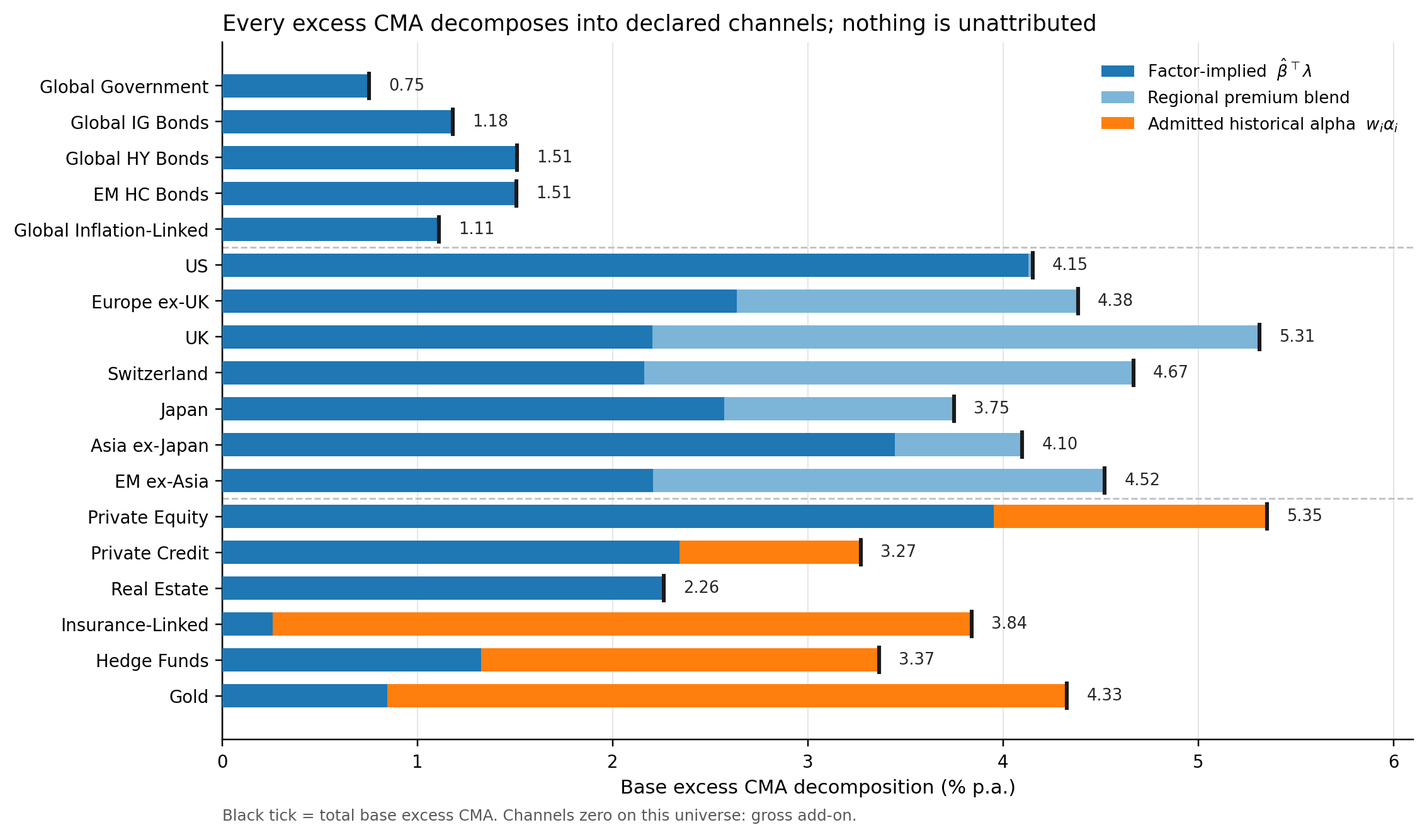
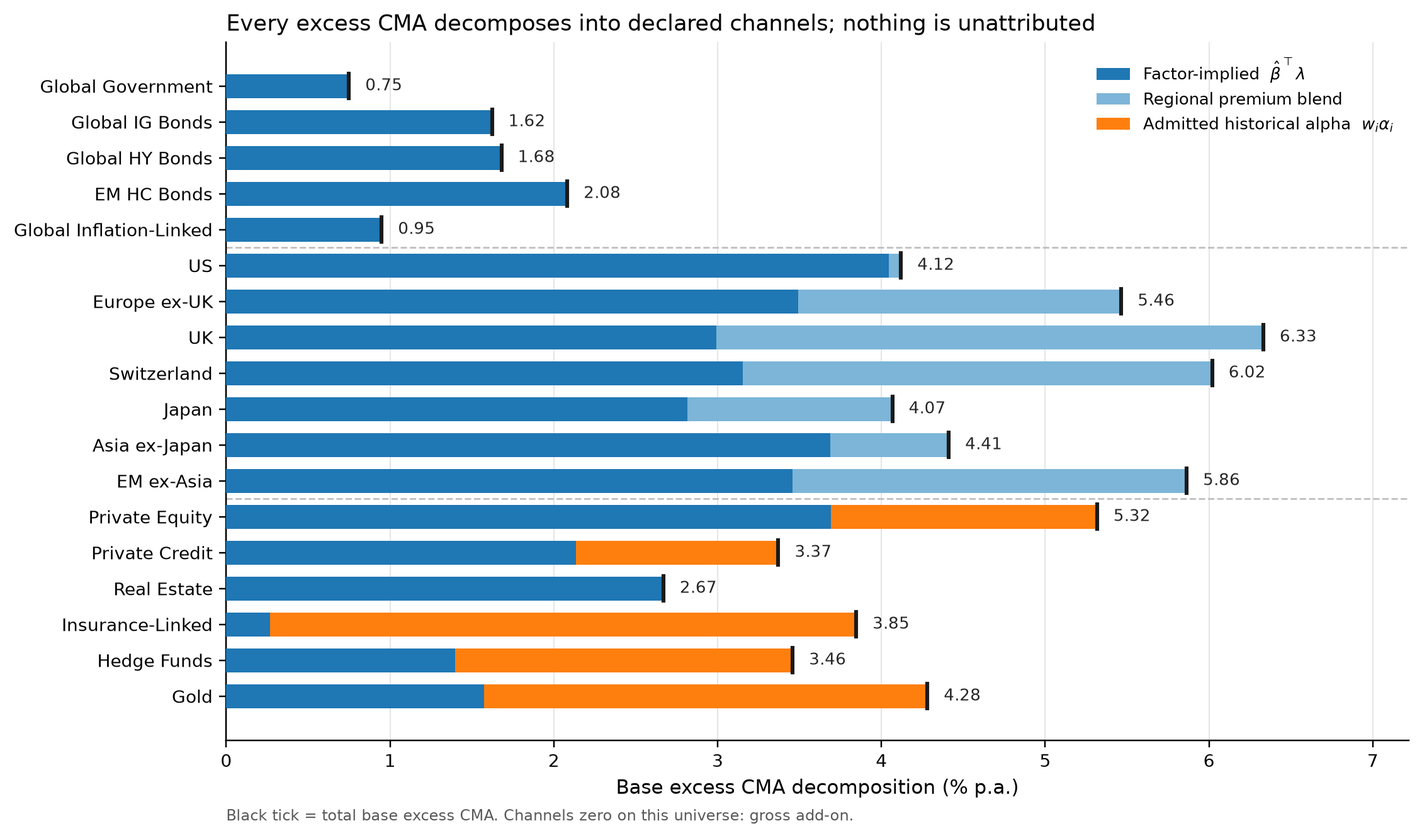
[jpm-custom-recut S4] rebuild custom-cut exhibits

diff --git a/papers/matf_cma_jpm_2026/replication/figures/exhibit_sr_sensitivity.tex b/papers/matf_cma_jpm_2026/replication/figures/exhibit_sr_sensitivity.tex
@@ -1,26 +1,26 @@
-% ===== tab:sr_sensitivity — regenerated on cma_data snapshot 2026q2 =====
+% ===== tab:sr_sensitivity — regenerated on cma_data snapshot 2026q2_custom =====
 % Source: replication/run_bootstrap_q2.py, B = 500 per row, seed 42.
 % Reduction ratio of the 90% frontier bandwidth at the Balanced with Alts
-%   benchmark volatility 9.37%. Only sigma_SR varies across rows.
+%   benchmark volatility 9.30%. Only sigma_SR varies across rows.
 % Prior mean is the July MATF_SHARPE_RATIOS vector (owner decision O-J1 / B10).
 
-				0.050 & 3.88$\times$ & 15.0$\times$ & Aggressive prior \\
-				0.075 & 2.68$\times$ & 7.2$\times$ & Moderate--aggressive \\
-				\textbf{0.100} & \textbf{2.00$\times$} & \textbf{4.0$\times$} & \textbf{Paper baseline} \\
-				0.125 & 1.62$\times$ & 2.6$\times$ & Moderate--loose \\
-				0.150 & 1.37$\times$ & 1.9$\times$ & Loose \\
-				0.200 & 1.04$\times$ & 1.1$\times$ & Prior equals data noise scale \\
+				0.050 & 4.56$\times$ & 20.8$\times$ & Aggressive prior \\
+				0.075 & 3.03$\times$ & 9.2$\times$ & Moderate--aggressive \\
+				\textbf{0.100} & \textbf{2.28$\times$} & \textbf{5.2$\times$} & \textbf{Paper baseline} \\
+				0.125 & 1.82$\times$ & 3.3$\times$ & Moderate--loose \\
+				0.150 & 1.53$\times$ & 2.3$\times$ & Loose \\
+				0.200 & 1.16$\times$ & 1.4$\times$ & Prior equals data noise scale \\
 %
 % tab:se_comparison, recomputed on snapshot inputs. Grinold-Kroner is ADOPTED
 %   at 3.77% per owner ruling O-J9: the R2 3.64% does not reproduce from the
 %   components Appendix B prints (0.1%, 1.5%, 1.0%, 2.0%) with rho = 0.5.
-%   Sample mean: 3.24% (R2 printed 3.24%)
+%   Sample mean: 3.25% (R2 printed 3.24%)
 %   Grinold-Kroner: 3.77% (R2 printed 3.64%)  [O-J9: adopted at the value the printed components imply; the R2 3.64% is superseded]
-%   MATF-CMA: 1.53% (R2 printed 1.53%)
-%   spec: sigma_i = 16.2%, T_eff = 25, beta_Eq = 0.99, sigma_F,Eq = 15.4%, sigma_SR = 0.10
-%   NOTE-line ratio phrase: 3.2 : 3.8 : 1.5 (R2 printed 3.2 : 3.6 : 1.5)
+%   MATF-CMA: 1.52% (R2 printed 1.53%)
+%   spec: sigma_i = 16.3%, T_eff = 25, beta_Eq = 0.98, sigma_F,Eq = 15.5%, sigma_SR = 0.10
+%   NOTE-line ratio phrase: 3.3 : 3.8 : 1.5 (R2 printed 3.2 : 3.6 : 1.5)
 %
 % --- tab:se_comparison body, US equity SE column ---
-				Sample mean      & $T_{\mathrm{eff}}$ asset returns & $T/L$ scales noise & $\sigma_i / \sqrt{T_{\mathrm{eff}}}$ & $3.24\%$ \\
+				Sample mean      & $T_{\mathrm{eff}}$ asset returns & $T/L$ scales noise & $\sigma_i / \sqrt{T_{\mathrm{eff}}}$ & $3.25\%$ \\
 				Grinold-Kroner   & $K_{GK} = 4$ forecasts per asset & fixed; no $T$ scaling & Equation~\eqref{eq:var_gk} & $3.77\%$ \\
-				MATF-CMA         & $M = 9$ universe-wide factor SRs & cross-asset pooling via $\hat{\boldsymbol\beta}$ & Equation~\eqref{eq:se_matf_full} & $1.53\%$ \\
+				MATF-CMA         & $M = 11$ universe-wide factor SRs & cross-asset pooling via $\hat{\boldsymbol\beta}$ & Equation~\eqref{eq:se_matf_full} & $1.52\%$ \\

diff --git a/papers/matf_cma_jpm_2026/replication/run_snapshot_tables.py b/papers/matf_cma_jpm_2026/replication/run_snapshot_tables.py
@@ -122,7 +122,7 @@ def write_nine_factors_tex(table: pd.DataFrame,
                            file_name: str = 'exhibit_nine_factors.tex',
                            ) -> Path:
     """drop-in replacement body for tab:nine_factors."""
-    lines = ['% ===== tab:nine_factors — regenerated on cma_data snapshot 2026q2 =====',
+    lines = ['% ===== tab:nine_factors — regenerated on cma_data snapshot 2026q2_custom =====',
              '% Source: replication/run_snapshot_tables.py, factor_premia.csv + factor_covar.csv.',
              '% Premium = lambda_j (base column); Vol = sqrt(diag(Sigma_F)); both in percent p.a.',
              '% Premium-source column text is the R2 manuscript text, unchanged.',
@@ -177,7 +177,7 @@ def write_admission_audit_tex(table: pd.DataFrame,
                               file_name: str = 'exhibit_admission_audit.tex',
                               ) -> Path:
     """drop-in replacement body for tab:admission_audit, with the sum IR^2 and Cap 3 lines."""
-    lines = ['% ===== tab:admission_audit — regenerated on cma_data snapshot 2026q2 =====',
+    lines = ['% ===== tab:admission_audit — regenerated on cma_data snapshot 2026q2_custom =====',
              '% Source: replication/run_snapshot_tables.py, assets.csv (production policy w_paper,',
              '%   PE recut to 0.5). The pre-recut workbook policy w_workbook is not used here.',
              '% alpha_i is the EWMA residual mean of the production returns spec, not a',
@@ -250,7 +250,7 @@ def write_sharpe_calibration_tex(table: pd.DataFrame,
                                  file_name: str = 'exhibit_sharpe_cal.tex',
                                  ) -> Path:
     """drop-in replacement body for tab:sharpe_cal."""
-    lines = ['% ===== tab:sharpe_cal — regenerated on cma_data snapshot 2026q2 =====',
+    lines = ['% ===== tab:sharpe_cal — regenerated on cma_data snapshot 2026q2_custom =====',
              '% Source: replication/run_snapshot_tables.py, MANIFEST prod_config_snapshot',
              '%   (family_sharpe_ratios x factor_vols). Empirical SR column joined from',
              '%   run_factor_history_exhibits.py (Stage J2), 2005 - 2026-Q2, zero rf.',
@@ -326,7 +326,7 @@ def write_factor_returns_tex(table: pd.DataFrame,
                              file_name: str = 'exhibit_factor_returns.tex',
                              ) -> Path:
     """drop-in replacement body for tab:factor_returns."""
-    lines = ['% ===== tab:factor_returns — regenerated on cma_data snapshot 2026q2 =====',
+    lines = ['% ===== tab:factor_returns — regenerated on cma_data snapshot 2026q2_custom =====',
              '% Source: replication/run_snapshot_tables.py, factor_navs.csv (calendar-year',
              '%   excess returns) + factor_premia.csv stress/upside columns.',
              '% Resolved semantics: the stress and upside premia columns ARE the de-compounded',

diff --git a/papers/matf_cma_jpm_2026/replication/figures/exhibit_governed_dial.tex b/papers/matf_cma_jpm_2026/replication/figures/exhibit_governed_dial.tex
@@ -1,5 +1,5 @@
 % ===== EXHIBIT: the governed dial (Appendix E per owner decision O-J3) =====
-% Source: replication/run_admission_exhibits.py on cma_data snapshot 2026q2.
+% Source: replication/run_admission_exhibits.py on cma_data snapshot 2026q2_custom.
 
 \begin{figure}[H]
 	\captionof{figure}{The Governed Dial: Cap 3 Sets the Admissible Admission Range}\label{fig:governed_dial}\vspace*{-0.5\baselineskip}
@@ -7,5 +7,5 @@
 		\includegraphics[width=0.90\linewidth]{figures/governed_dial.PNG}
 	\end{center}
 	\vspace*{-1.0\baselineskip}
-	{\footnotesize Notes: 2026-Q2 production cut, 18 assets, USD, Balanced with Alternatives mandate. For each admitted sleeve we sweep its admission weight $w_i$ over $[0,1]$ with the other sleeves held at the production policy, re-solve the mandate, and record the largest $w_i$ that satisfies each governance constraint. Nested bars are the Cap~3 portfolio budget $\boldsymbol\alpha_{adm}^{\intercal}\boldsymbol D^{-1}\boldsymbol\alpha_{adm} \le \kappa \cdot SR^2_{MATFCMA}$ at the three budgets, with the OTHER sleeves held at their Cap~3-projected weights $\theta(\kappa) w_j$, so a shorter bar is a tighter budget. Held instead at the production policy, the other sleeves alone exhaust the budget at every $\kappa$ shown and no admission is admissible: the sleeve-level restatement of the Cap~3 audit result. Orange diamonds mark the production admission. The benchmark stress floor of Section~5.3, $\text{stress total} \ge \mu_{bm} - 1.0\sigma_{bm}$, evaluates to -1.83\% of expected total return. the one-sigma benchmark stress floor never binds across the sweep, so Cap~3 is the operative constraint on every sleeve.}
+	{\footnotesize Notes: 2026-Q2 production cut, 18 assets, USD, Balanced with Alternatives mandate. For each admitted sleeve we sweep its admission weight $w_i$ over $[0,1]$ with the other sleeves held at the production policy, re-solve the mandate, and record the largest $w_i$ that satisfies each governance constraint. Nested bars are the Cap~3 portfolio budget $\boldsymbol\alpha_{adm}^{\intercal}\boldsymbol D^{-1}\boldsymbol\alpha_{adm} \le \kappa \cdot SR^2_{MATFCMA}$ at the three budgets, with the OTHER sleeves held at their Cap~3-projected weights $\theta(\kappa) w_j$, so a shorter bar is a tighter budget. Held instead at the production policy, the other sleeves alone exhaust the budget at every $\kappa$ shown and no admission is admissible: the sleeve-level restatement of the Cap~3 audit result. Orange diamonds mark the production admission. The benchmark stress floor of Section~5.3, $\text{stress total} \ge \mu_{bm} - 1.0\sigma_{bm}$, evaluates to -1.62\% of expected total return. the one-sigma benchmark stress floor never binds across the sweep, so Cap~3 is the operative constraint on every sleeve.}
 \end{figure}

diff --git a/papers/matf_cma_jpm_2026/replication/figures/exhibit_admission_audit.tex b/papers/matf_cma_jpm_2026/replication/figures/exhibit_admission_audit.tex
@@ -1,18 +1,18 @@
-% ===== tab:admission_audit — regenerated on cma_data snapshot 2026q2 =====
+% ===== tab:admission_audit — regenerated on cma_data snapshot 2026q2_custom =====
 % Source: replication/run_snapshot_tables.py, assets.csv (production policy w_paper,
 %   PE recut to 0.5). The pre-recut workbook policy w_workbook is not used here.
 % alpha_i is the EWMA residual mean of the production returns spec, not a
 % full-sample Jensen mean (owner decision O-J2).
 % Extends the R2 body with the portfolio claim line and the Cap 3 audit row.
 
-				Private Equity    & 0.50 &    $2.80$ & 1.40 & 5.35 & 26 & 0.19 & pass & pass \\
-				Private Credit    & 0.50 &    $1.85$ & 0.93 & 3.27 & 28 & 0.19 & pass & pass \\
-				Real Estate       & 0.00 &   $-2.48$ & 0.00 & 2.26 & 0 & 0.00 & pass & pass \\
-				Insurance-Linked  & 1.00 &    $3.58$ & 3.58 & 3.84 & 93 & 0.83 & FAIL & FAIL \\
-				Hedge Funds       & 1.00 &    $2.04$ & 2.04 & 3.37 & 61 & 0.77 & FAIL & FAIL \\
-				Gold              & 0.25 &   $13.93$ & 3.48 & 4.33 & 80 & 0.23 & pass & FAIL \\
+				Private Equity    & 0.50 &    $3.25$ & 1.63 & 5.32 & 31 & 0.22 & pass & pass \\
+				Private Credit    & 0.50 &    $2.47$ & 1.24 & 3.37 & 37 & 0.26 & pass & pass \\
+				Real Estate       & 0.00 &   $-1.63$ & 0.00 & 2.67 & 0 & 0.00 & pass & pass \\
+				Insurance-Linked  & 1.00 &    $3.58$ & 3.58 & 3.85 & 93 & 0.83 & FAIL & FAIL \\
+				Hedge Funds       & 1.00 &    $2.06$ & 2.06 & 3.46 & 60 & 0.78 & FAIL & FAIL \\
+				Gold              & 0.25 &   $10.83$ & 2.71 & 4.28 & 63 & 0.18 & pass & FAIL \\
 				\midrule
-				\multicolumn{6}{l}{Portfolio claim $\boldsymbol\alpha_{adm}^{\intercal}\boldsymbol D^{-1}\boldsymbol\alpha_{adm} = \sum_i \mathrm{IR}_i^2$} & 1.40 & \multicolumn{2}{c}{} \\
-				\multicolumn{6}{l}{Cap 3 budget $\kappa \cdot SR^2_{MATFCMA}$ at $\kappa = 1.00$} & 0.24 & \multicolumn{2}{c}{FAIL} \\
+				\multicolumn{6}{l}{Portfolio claim $\boldsymbol\alpha_{adm}^{\intercal}\boldsymbol D^{-1}\boldsymbol\alpha_{adm} = \sum_i \mathrm{IR}_i^2$} & 1.44 & \multicolumn{2}{c}{} \\
+				\multicolumn{6}{l}{Cap 3 budget $\kappa \cdot SR^2_{MATFCMA}$ at $\kappa = 1.00$} & 0.21 & \multicolumn{2}{c}{FAIL} \\
 %
-% Cap 3 audit: raw claim 1.398 vs budget 0.238 (SR2_MATFCMA = 0.238), skill share 85% -> FAIL.
+% Cap 3 audit: raw claim 1.444 vs budget 0.205 (SR2_MATFCMA = 0.205), skill share 88% -> FAIL.

diff --git a/papers/matf_cma_jpm_2026/replication/figures/exhibit_nine_factors.tex b/papers/matf_cma_jpm_2026/replication/figures/exhibit_nine_factors.tex
@@ -1,14 +1,16 @@
-% ===== tab:nine_factors — regenerated on cma_data snapshot 2026q2 =====
+% ===== tab:nine_factors — regenerated on cma_data snapshot 2026q2_custom =====
 % Source: replication/run_snapshot_tables.py, factor_premia.csv + factor_covar.csv.
 % Premium = lambda_j (base column); Vol = sqrt(diag(Sigma_F)); both in percent p.a.
 % Premium-source column text is the R2 manuscript text, unchanged.
 
-				Equity         & P-CAEY earnings yield, regional blend         & 3.98 & 15.4 & 0.26 \\
-				Rates          & OIS term premium + curve roll-down            & 1.01 & 5.6 & 0.18 \\
-				Credit         & CDS spread net of expected loss               & 1.42 & 4.7 & 0.30 \\
-				Carry          & Equilibrium Sharpe prior                      & 1.25 & 4.5 & 0.28 \\
-				Inflation      & Equilibrium Sharpe prior                      & 0.75 & 4.7 & 0.16 \\
-				Commodities    & Equilibrium Sharpe prior                      & 2.25 & 16.0 & 0.14 \\
-				Private Equity & Equilibrium Sharpe prior                      & 4.20 & 7.1 & 0.59 \\
-				Rates Vol      & Equilibrium Sharpe prior on swaption carry    & 1.25 & 5.2 & 0.24 \\
-				FX             & Zero by equilibrium (risk-only factor)        & 0.00 & 6.9 & 0.00 \\
+				Equity         & P-CAEY earnings yield, regional blend         & 3.82 & 15.5 & 0.25 \\
+				Rates          & OIS term premium + curve roll-down            & 1.00 & 5.6 & 0.18 \\
+				Credit         & CDS spread net of expected loss               & 1.42 & 4.6 & 0.31 \\
+				Credit EM      & EM sovereign spread net of expected loss      & 1.64 & 4.6 & 0.36 \\
+				Carry G10      & Equilibrium Sharpe prior                      & 1.02 & 4.8 & 0.21 \\
+				Carry EM       & Equilibrium Sharpe prior                      & 1.17 & 4.3 & 0.27 \\
+				Inflation      & Equilibrium Sharpe prior                      & 0.67 & 4.5 & 0.15 \\
+				Commodities    & Equilibrium Sharpe prior                      & 2.28 & 16.1 & 0.14 \\
+				Private Equity & Equilibrium Sharpe prior                      & 2.99 & 7.0 & 0.43 \\
+				Rates Vol      & Equilibrium Sharpe prior on swaption carry    & 1.13 & 5.2 & 0.22 \\
+				FX             & Zero by equilibrium (risk-only factor)        & 0.00 & 6.8 & 0.00 \\

diff --git a/papers/matf_cma_jpm_2026/replication/figures/exhibit_scenario_floors.tex b/papers/matf_cma_jpm_2026/replication/figures/exhibit_scenario_floors.tex
@@ -1,5 +1,5 @@
 % ===== Section 5.3 scenario floors, B13 one-sigma rule =====
-% Source: replication/run_admission_exhibits.py on cma_data snapshot 2026q2.
+% Source: replication/run_admission_exhibits.py on cma_data snapshot 2026q2_custom.
 % Rule: stress-repriced expected TOTAL return >= mu_bm - 1.0 * sigma_bm per mandate,
 %   with mu_bm the benchmark expected total return under the base CMAs and sigma_bm
 %   the benchmark volatility from the risk model. Anchor-invariant: r_f cancels on
@@ -14,14 +14,14 @@
 			\textbf{Mandate} & $\mu_{bm}$ & $\sigma_{bm}$ & \textbf{Floor} & \multicolumn{2}{c}{\textbf{Stress total}} & \multicolumn{2}{c}{\textbf{Headroom}} \\
 			& (\%) & (\%) & (\%) & production & pre-recut & production & pre-recut \\
 			\midrule
-			Income w/o Alts      & 5.15 & 3.91 & 1.25 & 2.85 & 2.85 & +1.61 & +1.61 \\
-			Low w/o Alts         & 6.12 & 6.58 & -0.46 & 3.19 & 3.19 & +3.65 & +3.65 \\
-			Balanced w/o Alts    & 7.09 & 10.28 & -3.19 & 3.56 & 3.56 & +6.75 & +6.75 \\
-			Growth w/o Alts      & 8.38 & 15.57 & -7.19 & 3.98 & 3.98 & +11.16 & +11.16 \\
-			Income with Alts     & 5.49 & 4.02 & 1.48 & 3.37 & 3.47 & +1.89 & +2.00 \\
-			Low with Alts        & 6.61 & 6.67 & -0.06 & 4.07 & 4.28 & +4.13 & +4.34 \\
-			Balanced with Alts   & 7.53 & 9.37 & -1.83 & 4.63 & 4.94 & +6.46 & +6.78 \\
-			Growth with Alts     & 8.46 & 12.22 & -3.77 & 4.92 & 5.34 & +8.69 & +9.11 \\
+			Income w/o Alts      & 5.31 & 3.95 & 1.36 & 3.19 & 3.19 & +1.83 & +1.83 \\
+			Low w/o Alts         & 6.30 & 6.62 & -0.32 & 3.62 & 3.62 & +3.94 & +3.94 \\
+			Balanced w/o Alts    & 7.28 & 10.31 & -3.03 & 3.93 & 3.93 & +6.96 & +6.96 \\
+			Growth w/o Alts      & 8.59 & 15.60 & -7.01 & 4.28 & 4.28 & +11.28 & +11.28 \\
+			Income with Alts     & 5.64 & 4.06 & 1.58 & 3.71 & 3.83 & +2.12 & +2.25 \\
+			Low with Alts        & 6.76 & 6.66 & 0.10 & 4.42 & 4.66 & +4.31 & +4.56 \\
+			Balanced with Alts   & 7.68 & 9.30 & -1.62 & 4.84 & 5.21 & +6.46 & +6.83 \\
+			Growth with Alts     & 8.60 & 12.11 & -3.52 & 5.19 & 5.67 & +8.70 & +9.19 \\
 			\bottomrule
 %
 % Finding: the floor is slack on all eight mandates at n = 1.0. Headroom is identical in excess and total space.

diff --git a/papers/matf_cma_jpm_2026/replication/figures/exhibit_provider_saa.tex b/papers/matf_cma_jpm_2026/replication/figures/exhibit_provider_saa.tex
@@ -1,5 +1,5 @@
 % ===== tab:provider_saa — Benchmark, MATF and Consensus columns =====
-% Source: replication/run_provider_exhibits.py on cma_data snapshot 2026q2.
+% Source: replication/run_provider_exhibits.py on cma_data snapshot 2026q2_custom.
 % Consensus = Horizon Actuarial 2025 survey averages via cma_data.consensus
 %   (printed 10Y ARITHMETIC nominal total returns, USD investor, Exhibit 17).
 % Insurance-Linked has no survey line and is held at the MATF value, so it carries
@@ -17,24 +17,24 @@
 				\midrule
 				\multicolumn{4}{l}{\textit{Panel A: optimal weights (\%)}} \\
 				Fixed income (5 sleeves)  & 28.0 & 14.0 & 14.0 \\
-				US                        & 28.7 & 34.0 & 28.6 \\
+				US                        & 28.7 & 29.0 & 29.3 \\
 				Europe ex-UK              & 3.7 & 5.6 & 5.6 \\
 				UK                        & 1.3 & 2.0 & 2.0 \\
 				Switzerland               & 0.8 & 1.3 & 1.3 \\
-				Japan                     & 2.0 & 1.0 & 3.1 \\
-				Asia ex-Japan             & 4.5 & 3.5 & 6.8 \\
+				Japan                     & 2.0 & 3.1 & 3.1 \\
+				Asia ex-Japan             & 4.5 & 6.8 & 6.8 \\
 				EM ex-Asia                & 0.9 & 1.3 & 1.3 \\
 				Private Equity            & 15.0 & 22.5 & 22.5 \\
 				Private Credit            & 3.0 & 1.5 & 4.5 \\
-				Real Estate               & 3.0 & 1.5 & 2.9 \\
+				Real Estate               & 3.0 & 1.5 & 2.3 \\
 				Insurance-Linked          & 3.0 & 4.5 & 4.5 \\
-				Hedge Funds               & 3.0 & 2.8 & 1.5 \\
+				Hedge Funds               & 3.0 & 2.5 & 1.5 \\
 				Gold                      & 3.0 & 4.5 & 1.5 \\
 				\midrule
 				\multicolumn{4}{l}{\textit{Panel B: portfolio statistics}} \\
-				Expected total return (\%)  & & 8.13 & 8.42 \\
-				Volatility (\%)             & & 10.7 & 10.6 \\
-				Excess Sharpe ratio         & & 0.37 & 0.40 \\
+				Expected total return (\%)  & & 8.28 & 8.43 \\
+				Volatility (\%)             & & 10.6 & 10.6 \\
+				Excess Sharpe ratio         & & 0.39 & 0.40 \\
 				Tracking error (\%)         & & 1.50 & 1.50 \\
 				\bottomrule
 			\end{tabular}

diff --git a/papers/matf_cma_jpm_2026/replication/run_provider_exhibits.py b/papers/matf_cma_jpm_2026/replication/run_provider_exhibits.py
@@ -79,7 +79,7 @@ CONVERTED_GROUPS: Dict[str, List[str]] = {
     'Emerging equity (one survey line, two sleeves)':
         ['M1APJ Index', 'M1EFZ Index'],
 }
-R2_CONSENSUS_SR2_ALPHA = 0.091          # the parity reference on the 17-sleeve subset
+R2_CONSENSUS_SR2_ALPHA = 0.099          # custom-cut parity reference on the 17-sleeve subset
 
 
 def load_provider_vectors(snapshots_path: Optional[Path] = None) -> pd.DataFrame:
@@ -327,7 +327,7 @@ def write_provider_saa_tex(weights: pd.DataFrame,
     bonds = inputs.assets.index[inputs.assets['asset_class'] == 'Bonds']
     lines = [
         '% ===== tab:provider_saa — Benchmark, MATF and Consensus columns =====',
-        '% Source: replication/run_provider_exhibits.py on cma_data snapshot 2026q2.',
+        '% Source: replication/run_provider_exhibits.py on cma_data snapshot 2026q2_custom.',
         '% Consensus = Horizon Actuarial 2025 survey averages via cma_data.consensus',
         '%   (printed 10Y ARITHMETIC nominal total returns, USD investor, Exhibit 17).',
         '% Insurance-Linked has no survey line and is held at the MATF value, so it carries',
@@ -379,7 +379,7 @@ def write_provider_decomposition_tex(decomposition: pd.DataFrame,
     largest = grouped.loc[grouped['unattributed_bp'].abs().sort_values(ascending=False).index[:3]]
     lines = [
         '% ===== EXHIBIT: tab:provider_decomposition (NEW, table per owner decision O-J3) =====',
-        '% Source: replication/run_provider_exhibits.py on cma_data snapshot 2026q2.',
+        '% Source: replication/run_provider_exhibits.py on cma_data snapshot 2026q2_custom.',
         f"% Subset: {decomposition.attrs['n_sleeves']} published-plus-converted sleeves;",
         f"%   held-at-MATF sleeves excluded ({decomposition.attrs['excluded']}) because they",
         '%   contribute zero deviation by construction.',

diff --git a/papers/matf_cma_jpm_2026/replication/figures/exhibit_factor_returns.tex b/papers/matf_cma_jpm_2026/replication/figures/exhibit_factor_returns.tex
@@ -1,16 +1,18 @@
-% ===== tab:factor_returns — regenerated on cma_data snapshot 2026q2 =====
+% ===== tab:factor_returns — regenerated on cma_data snapshot 2026q2_custom =====
 % Source: replication/run_snapshot_tables.py, factor_navs.csv (calendar-year
 %   excess returns) + factor_premia.csv stress/upside columns.
 % Resolved semantics: the stress and upside premia columns ARE the de-compounded
 %   5Y bumps Delta f = f_annual / 5, not base + bump. Verified to
-%   1.1e-12 bp.
+%   9.1e-13 bp.
 % Annual columns print to one decimal (R2 printed integers).
 
 				Equity         &    $-19.2$ &    $+15.4$ & &    $-3.8$ &    $+3.1$ \\
 				Rates          &    $-19.1$ &     $+0.5$ & &    $-3.8$ &    $+0.1$ \\
 				Credit         &     $-0.6$ &     $+7.3$ & &    $-0.1$ &    $+1.5$ \\
-				Carry          &     $+1.4$ &     $+2.1$ & &    $+0.3$ &    $+0.4$ \\
-				Inflation      &     $+3.6$ &     $-0.8$ & &    $+0.7$ &    $-0.2$ \\
+				Credit EM      &    $-10.8$ &     $+2.9$ & &    $-2.2$ &    $+0.6$ \\
+				Carry G10      &     $-2.1$ &     $+0.3$ & &    $-0.4$ &    $+0.1$ \\
+				Carry EM       &    $+13.1$ &     $+4.4$ & &    $+2.6$ &    $+0.9$ \\
+				Inflation      &     $+8.1$ &     $-1.7$ & &    $+1.6$ &    $-0.3$ \\
 				Commodities    &    $+13.5$ &    $-10.0$ & &    $+2.7$ &    $-2.0$ \\
 				Private Equity &     $-5.1$ &     $+7.6$ & &    $-1.0$ &    $+1.5$ \\
 				Rates Vol      &     $+5.4$ &     $-1.3$ & &    $+1.1$ &    $-0.3$ \\

diff --git a/papers/matf_cma_jpm_2026/replication/run_universe_exhibits.py b/papers/matf_cma_jpm_2026/replication/run_universe_exhibits.py
@@ -160,7 +160,8 @@ def build_cma_snapshot(inputs) -> pd.DataFrame:
 def plot_cma_snapshot(table: pd.DataFrame) -> plt.Figure:
     """render the universe snapshot table with the asset-class blocks separated."""
     boundaries = [i for i in range(1, len(table)) if table['Class'].iloc[i] != table['Class'].iloc[i - 1]]
-    widths = [1.60, 0.82, 0.62] + [0.44] * 9 + [0.52, 0.54, 0.54] + [0.42, 0.50, 0.44]
+    n_factors = len(table.columns) - 8  # Ticker/Class + Base/Stress/Upside/R2/Alpha/Vol
+    widths = [1.60, 0.82, 0.62] + [0.52] * n_factors + [0.52, 0.54, 0.54] + [0.42, 0.50, 0.44]
     return es.table_figure(df=table, col_widths=widths, row_height=0.40, fontsize=7.4,
                            special_columns_colors=[(0, '#c6e2f0')],
                            rows_edge_lines=boundaries, rows_edge_color=es.BLUE)
@@ -480,7 +481,7 @@ def write_universe_notes(per_carrier: pd.DataFrame,
     ils = per_carrier.loc['EHFI804 Index']
     lines = [
         '% ===== Caption notes for the Stage J3 universe exhibits =====',
-        '% Source: replication/run_universe_exhibits.py on cma_data snapshot 2026q2.',
+        '% Source: replication/run_universe_exhibits.py on cma_data snapshot 2026q2_custom.',
         '%',
         f"% DEFECT D3, caption change required on tb:cma_snapshot: the as-of date is",
         f"%   {AS_OF_DATE}, not 31 March 2026. Every illustration in Appendix C restates",

diff --git a/papers/matf_cma_jpm_2026/replication/figures/exhibit_universe_notes.tex b/papers/matf_cma_jpm_2026/replication/figures/exhibit_universe_notes.tex
@@ -1,5 +1,5 @@
 % ===== Caption notes for the Stage J3 universe exhibits =====
-% Source: replication/run_universe_exhibits.py on cma_data snapshot 2026q2.
+% Source: replication/run_universe_exhibits.py on cma_data snapshot 2026q2_custom.
 %
 % DEFECT D3, caption change required on tb:cma_snapshot: the as-of date is
 %   30 June 2026, not 31 March 2026. Every illustration in Appendix C restates
@@ -15,14 +15,14 @@
 %   beta @ lambda PLUS the regional add-on PLUS the admitted alpha. The add-on is
 %   INSIDE factor_excess_cma, so a stack built from factor_excess_cma plus the
 %   add-on would double-count it. Reconciliation to the published excess CMA:
-%   8.3e-13 bp.
+%   7.6e-13 bp.
 %
 % tab:benchmark_table — rendered from cma_data/benchmarks.py, so the Asia ex-Japan
 %   4.52% / EM ex-Asia 0.88% pair is D8-correct by construction. The R2 exhibit
 %   build printed the transposed pair.
 %
 % fig:sr2_decomposition — the Insurance-Linked bar carries a premium-like share of
-%   61% on a claimed 0.68 of squared Sharpe, of which
-%   0.27 survives the solo projection. Section 4.2 gains that share
+%   79% on a claimed 0.68 of squared Sharpe, of which
+%   0.14 survives the solo projection. Section 4.2 gains that share
 %   (content map 4.2): ILS is the limit case, R^2 = 0.17 yet most of its admitted
 %   alpha is premium in disguise.

diff --git a/papers/matf_cma_jpm_2026/replication/figures/exhibit_consistency_notes.tex b/papers/matf_cma_jpm_2026/replication/figures/exhibit_consistency_notes.tex
@@ -1,5 +1,5 @@
 % ===== Caption notes for the Stage J4d consistency exhibits =====
-% Source: replication/run_consistency_exhibits.py on cma_data snapshot 2026q2.
+% Source: replication/run_consistency_exhibits.py on cma_data snapshot 2026q2_custom.
 %
 % Historical-mean CMAs: sample mean of the native-frequency excess LOG returns,
 %   annualized by the observation frequency (12 monthly / 4 quarterly), plus the
@@ -8,10 +8,10 @@
 %   and Europe ex-UK (from Nov 2007) contribute on shorter histories than the
 %   Appendix B text describes. See the completion report deviations list.
 %
-% fig:declared_delta — median |Delta|: historical 0.39%, MATF 0.33%; maximum historical 6.44%.
-%   MATF reconciliation to the declared channels: 5.8e-17. The R2 text's machine-zero claim of
+% fig:declared_delta — median |Delta|: historical 0.63%, MATF 0.47%; maximum historical 5.60%.
+%   MATF reconciliation to the declared channels: 1.2e-16. The R2 text's machine-zero claim of
 %   order 1e-17 re-asserts on this cut at the printed magnitude.
 %
 % fig:unintended_exposures — both books solved long-only at the Balanced benchmark
-%   volatility 9.37%. Idiosyncratic share of
-%   active variance: MATF 75%, historical mean 57%.
+%   volatility 9.30%. Idiosyncratic share of
+%   active variance: MATF 79%, historical mean 58%.
